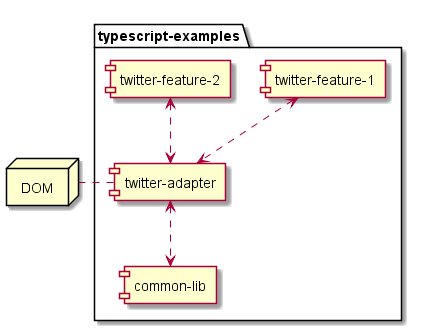
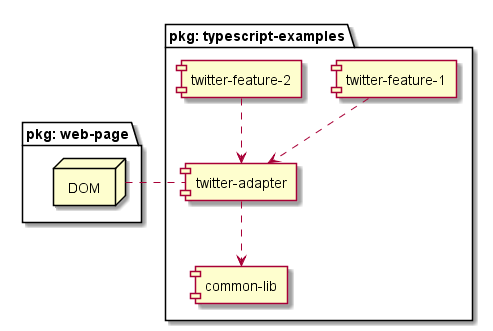
docs updated

diff --git a/docs/index.md b/docs/index.md
@@ -6,6 +6,26 @@
 
 **Background** - 
 
+**Inpage** - 
+
+**Popup** - 
+
+**Options** -
+
+**Контекст** - 
+
+**Adapter** -
+
+**Feature** - 
+
+**Точка вставки** - 
+
+**Виджет** - 
+
+**Дополненный контекст** - 
+
+**Augmentation Server** -
+
 ## Dapplet Extension
 
 Диаграмма ниже описывает структуру расширения и его внешнее окружение.
@@ -22,4 +42,40 @@
 6. При необходимости из внешнего API (например, через WebSocket или HTTP) поставляются дополнительные данные для расширения контекста.
 
 ## Injectable Modules
+
+Для разработки модулей предлагается архитектура, позволяющая разделить функциональную ответственность в отдельные модули:
+
+* Адаптер (adapter) - "низкоуровневое" взаимодействие с DOM страницы;
+* Возможность (feature) - "высокоуровневое" описание бизнес-кейсов.
+
+Целью такого разделения явялется упрощённая разработка виджетов для реализации бизнес-кейсов без необходимости погружения до уровня DOM веб-страницы. 
+
+Разработчик Feature оперируёт только высокоуровневыми классами, предоставляемыми адаптером, которые инкапсулируют всю логику взаимодействия с DOM веб-страницы. 
+
+Разработчик Feature получает возможность внедрять виджеты на веб-страницу без знания того, как устроен её DOM. Это позволяет полностью сфокусироваться на реализации бизнес-кейсов.
+
+Задачами модулей-адаптеров являются:
+
+1. Парсинг контекстной информации из DOM веб-страницы.
+2. Определение точек вставки, достпуных на веб-странице.
+3. Определение типов виджетов, доступных для размещения в каждой конкретной точке вставки.
+4. Внедрение виджетов в DOM веб-страницы.
+5. Наблюдение за изменениями DOM веб-страницы.
+
+Задачами модулей-возможностей явялются:
+
+1. Конфигурация виджетов и их привязка к конкретной точке вставки.
+2. Описание поведения виджетов при взаимодействии с ними.
+3. Конфигурация точки входа во внешний API для загрузки дополненного контекста.
+
+### Зависимости между модулями
+
+На диаграмме ниже показан пример того, как могут выглядеть зависимости между модулями.
+
+Feature-модули ```twitter-feature-1``` и ```twitter-feature-2``` используют адаптер ```twitter-adapter``` для внедрения виджетов. Модуль ```twitter-adapter``` взаимодействует с DOM веб-страницы. 
+
+Возможно использование общих библиотек для вынесения повторяющегося кода в отдельные модули. На диаграмме ```twitter-adapter``` использует модуль ```common-lib```.
+
 ![](images/typescript-examples.png) 
+
+Примеры такой реализации можно найти в репозитории [typescript-examples](https://github.com/dapplets/typescript-examples).
